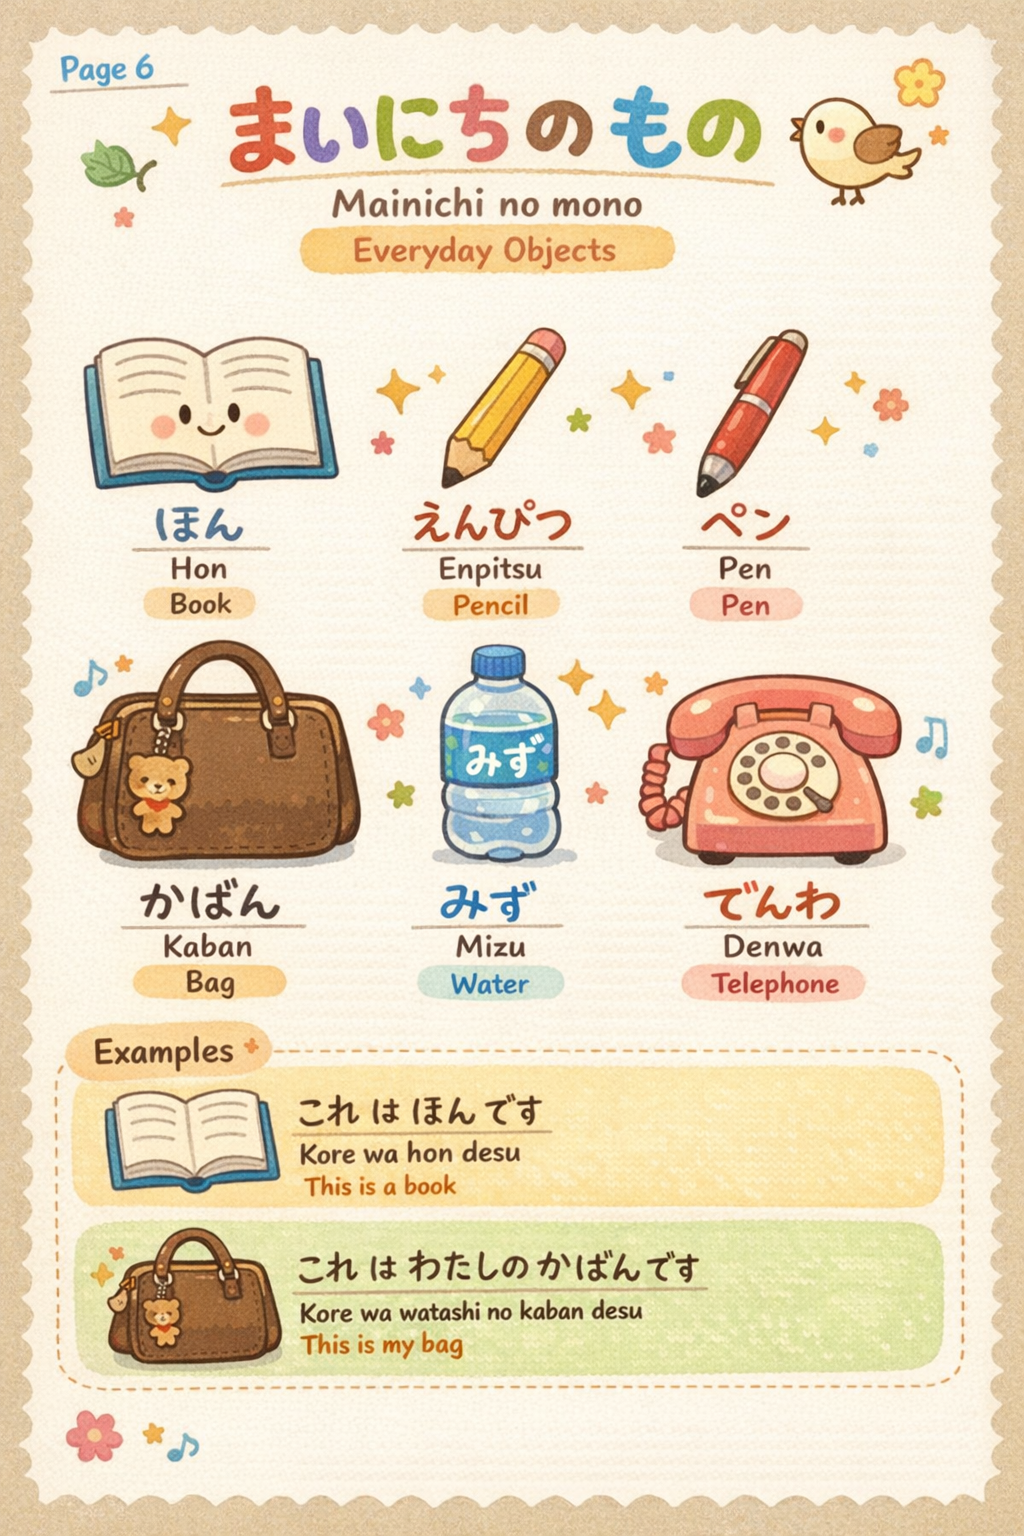
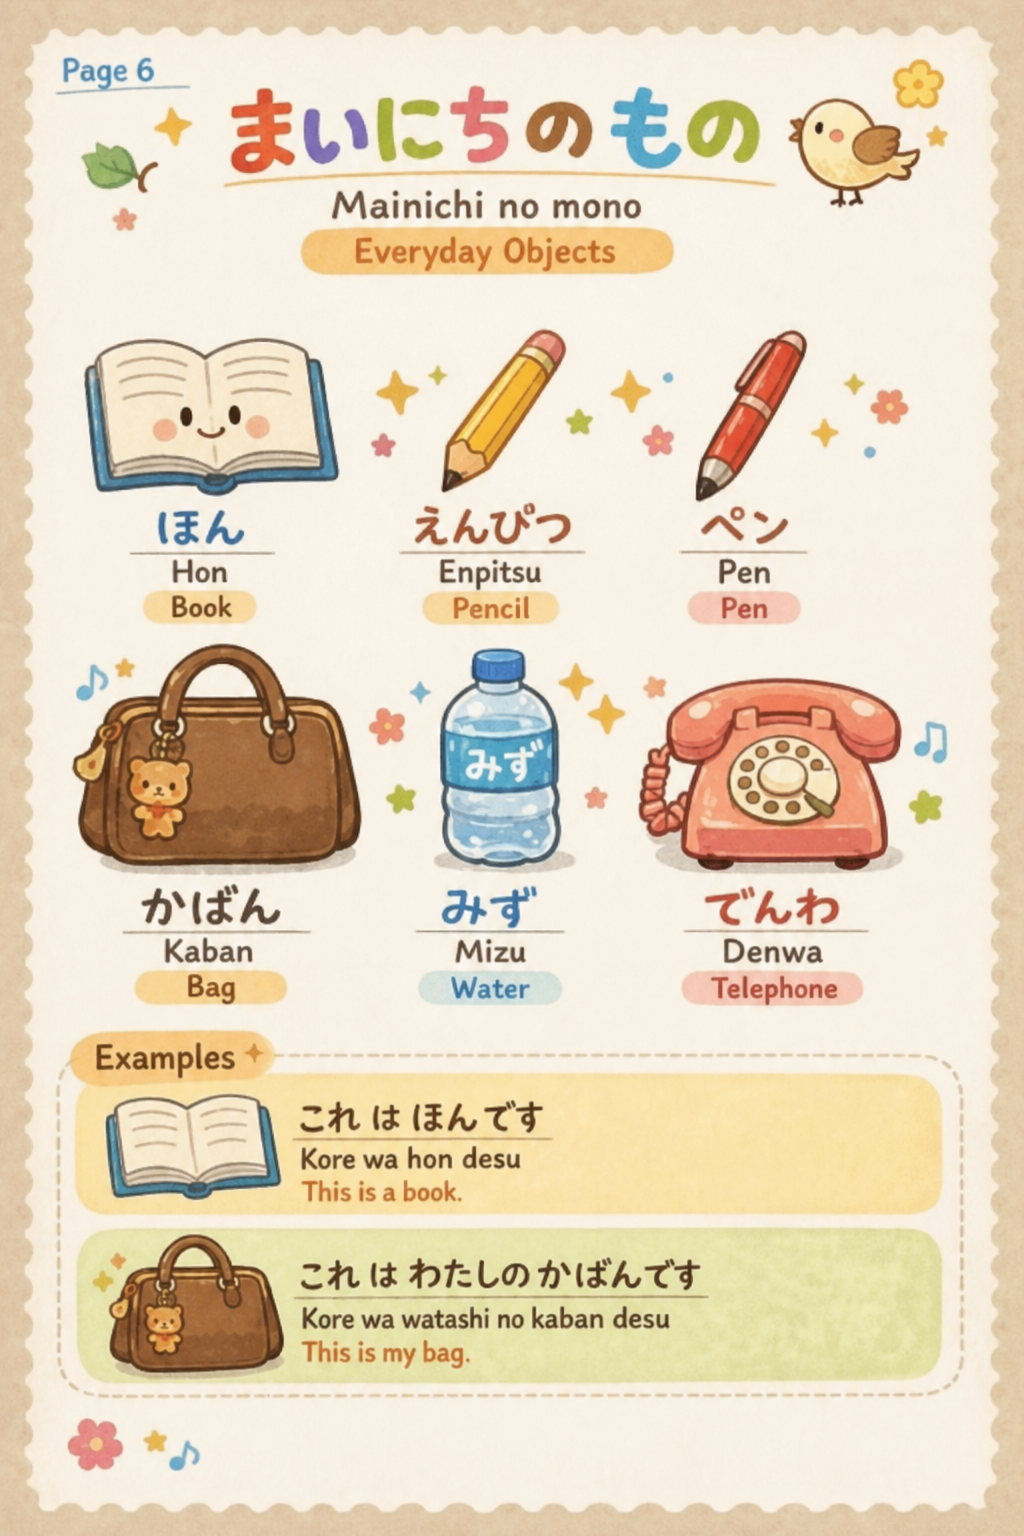
Swap in v2 Please and Thank You page; re-export Everyday Objects
ebook.html now points at 24_PleaseAndThankYou_v2.png in place of
23_PleaseAndThankYou.png, and 18_EverydayObjects.png is re-exported
(2.4 MB -> 1.9 MB). All 41 pages the ebook references are present on disk.

Claude-Session: https://claude.ai/code/session_01LFRTjNmhC5Tg8hPuvhPnZy

diff --git a/ebook.html b/ebook.html
@@ -588,7 +588,7 @@
             { file: '25_GreetingPractice.png', title: 'Greeting Practice', section: 'Greetings & Introductions' },
             { file: '22_JapanesePronouns.png', title: 'Japanese Pronouns', section: 'Greetings & Introductions' },
             { file: '19_Possession_No.png', title: 'Possession with \u306e (no)', section: 'Greetings & Introductions' },
-            { file: '23_PleaseAndThankYou.png', title: 'Please and Thank You', section: 'Greetings & Introductions' },
+            { file: '24_PleaseAndThankYou_v2.png', title: 'Please and Thank You', section: 'Greetings & Introductions' },
             { file: '06_PolitelySayingNo.png', title: 'Politely Saying No', section: 'Greetings & Introductions' },
 
             { file: '46 everyday phrases.png', title: 'Everyday Phrases at Home - まいにちの ことば', section: 'Everyday Phrases' },
